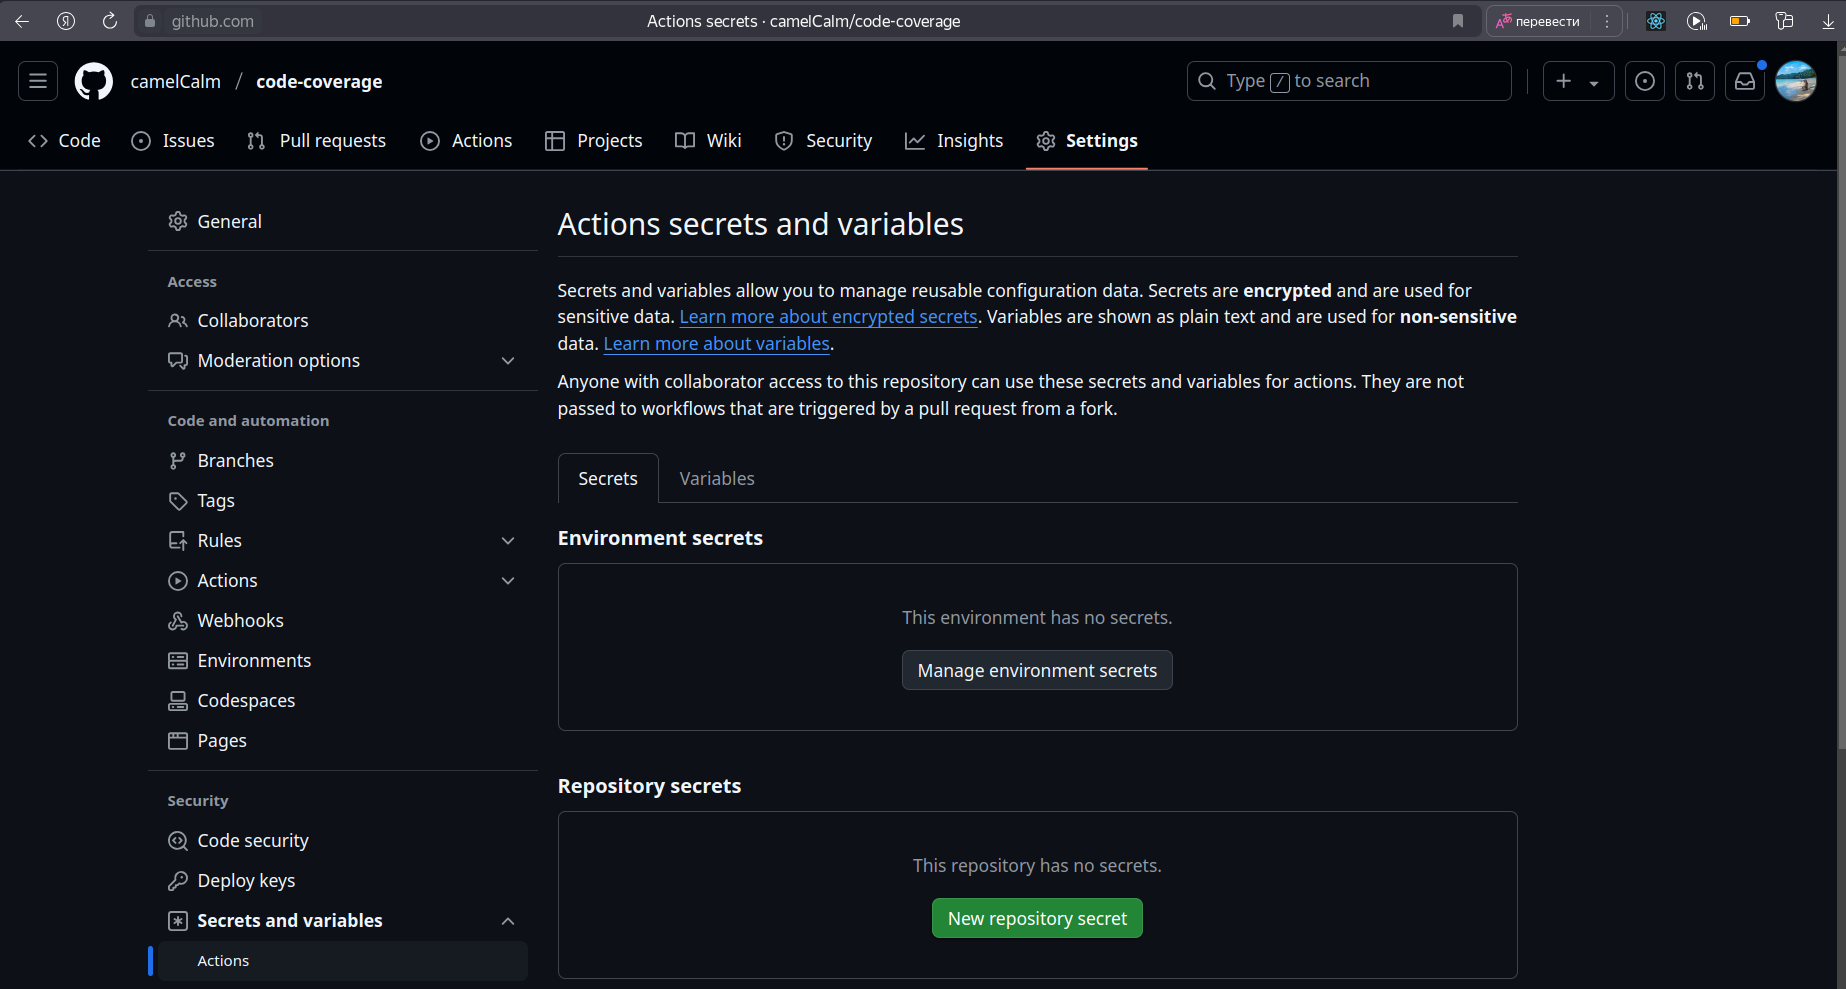
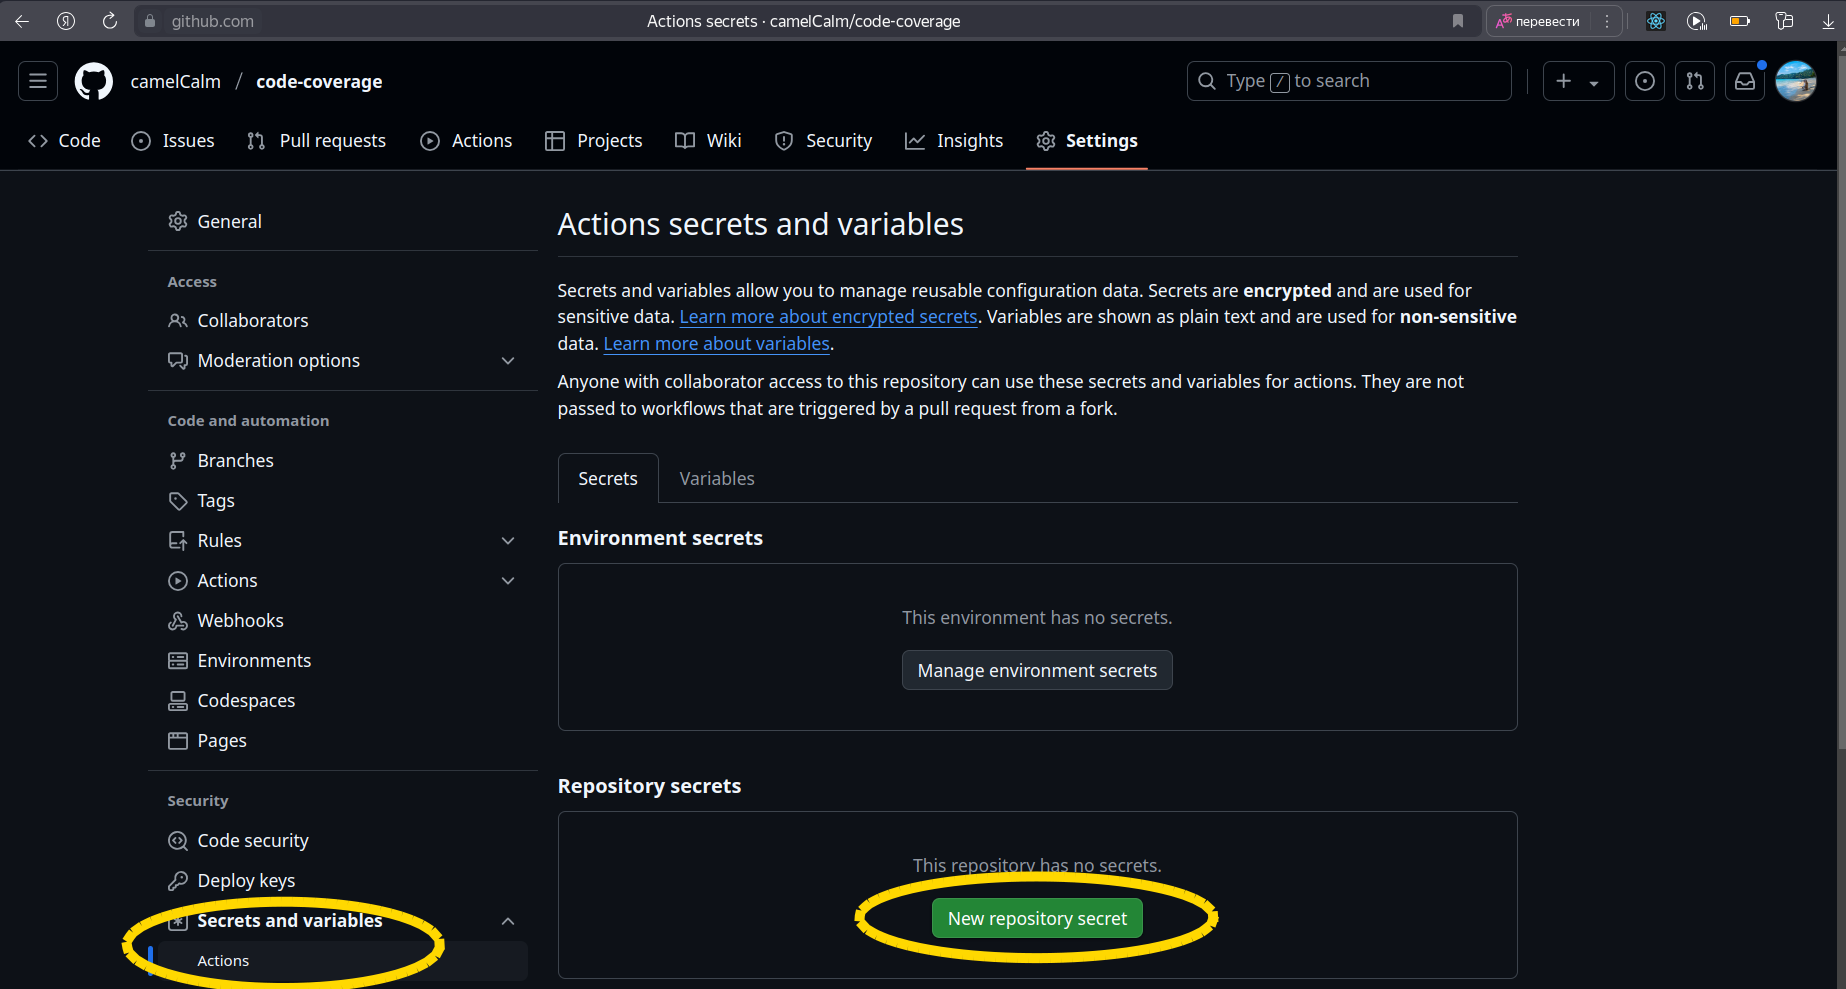
fix README.md

Changed region(s): [[0.4632, 0.8797, 0.6484, 1.0], [0.0618, 0.91, 0.247, 1.0], [0.6484, 0.91, 0.6793, 0.9403]]

diff --git a/README.md b/README.md
@@ -10,22 +10,34 @@
 ```globals```
 ```jest```
 
-2. Пройти регистрацию на сайте 
+2. Пройти регистрацию на сайте:
 
 ```https://qlty.sh```
 
-подробная инструкция:
+Подробная инструкция от разработчиков qlty:
 
 ```https://docs.qlty.sh/cloud/quickstart```
 
-3. Далее необходимо добавить созданную директорию в Repositories, войти в Projects -> Project Settings -> в строке Code Coverage скопировать Coverage Token.
+3. Далее необходимо добавить созданную директорию в Repositories
 
 ![add project](https://github.com/camelCalm/code-coverage/blob/main/img/addProject.png)
 
+4. Войти в Projects 
+
+![open project](https://github.com/camelCalm/code-coverage/blob/main/img/openProjects.png)
+
+-> Project Settings -> в строке Code Coverage скопировать Coverage Token.
+
+![set project](https://github.com/camelCalm/code-coverage/blob/main/img/setProj.png)
+
 4. Coverage Token необходимо сохранить в 
 
-``
+```
 https://github.com/camelCalm/<название проекта>/settings/secrets/actions 
-``
+```
+
+![add secret key](https://github.com/camelCalm/code-coverage/blob/main/img/addSecret.png)
+
+![add secret key2](https://github.com/camelCalm/code-coverage/blob/main/img/addSecret2.png)
 
 под именем: ```CC_TEST_REPORTER_ID```
